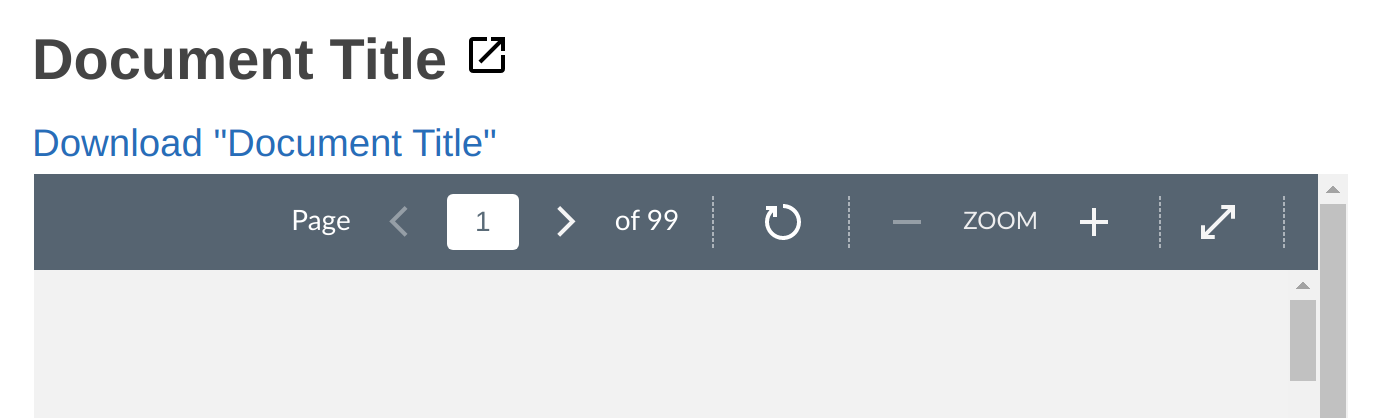
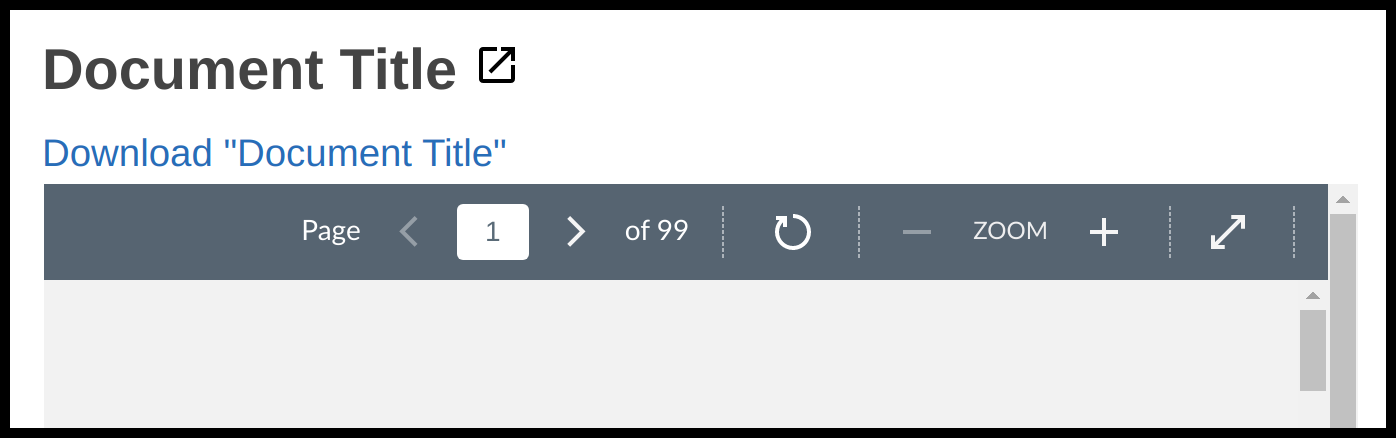
Add borders to screenshots and update README alt texts

diff --git a/README.md b/README.md
@@ -10,13 +10,13 @@ This Chrome extension fixes both by modifying the web pages.
 - On a page like the one below, the document that you are viewing is shown in a tiny window on the page.
   This makes it hard to read since you have to scroll frequently to view the full page.
   The only way to make the document bigger is to either enter fullscreen mode, or download the document.
-  ![Canvas Before](screenshots/Canvas%20Document%20Before.png)
+  ![Canvas Document Before](screenshots/Canvas%20Document%20Before.png)
   This extension adds an "Open In New Tab" button (shown below), which opens the document in a new tab. 
-  ![Canvas Before](screenshots/Canvas%20Document%20After.png)
+  ![Canvas Document After](screenshots/Canvas%20Document%20After.png)
 - On a page like the one below, clicking on a file opens it in the current tab, and clicking "open in new tab" will download the file to your computer.
-  ![Canvas Before](screenshots/Canvas%20File%20Before.png)
+  ![Canvas File Before](screenshots/Canvas%20File%20Before.png)
   This extension adds an "Open In New Tab" button (shown below), which actually opens the document in a new tab instead of downloading it.
-  ![Canvas Before](screenshots/Canvas%20File%20After.png)
+  ![Canvas File After](screenshots/Canvas%20File%20After.png)
 
 ### Changes to Moodle
 - On a page like the one below, clicking on the "Homework Assignment.pdf" link will automatically download the PDF to your computer.
